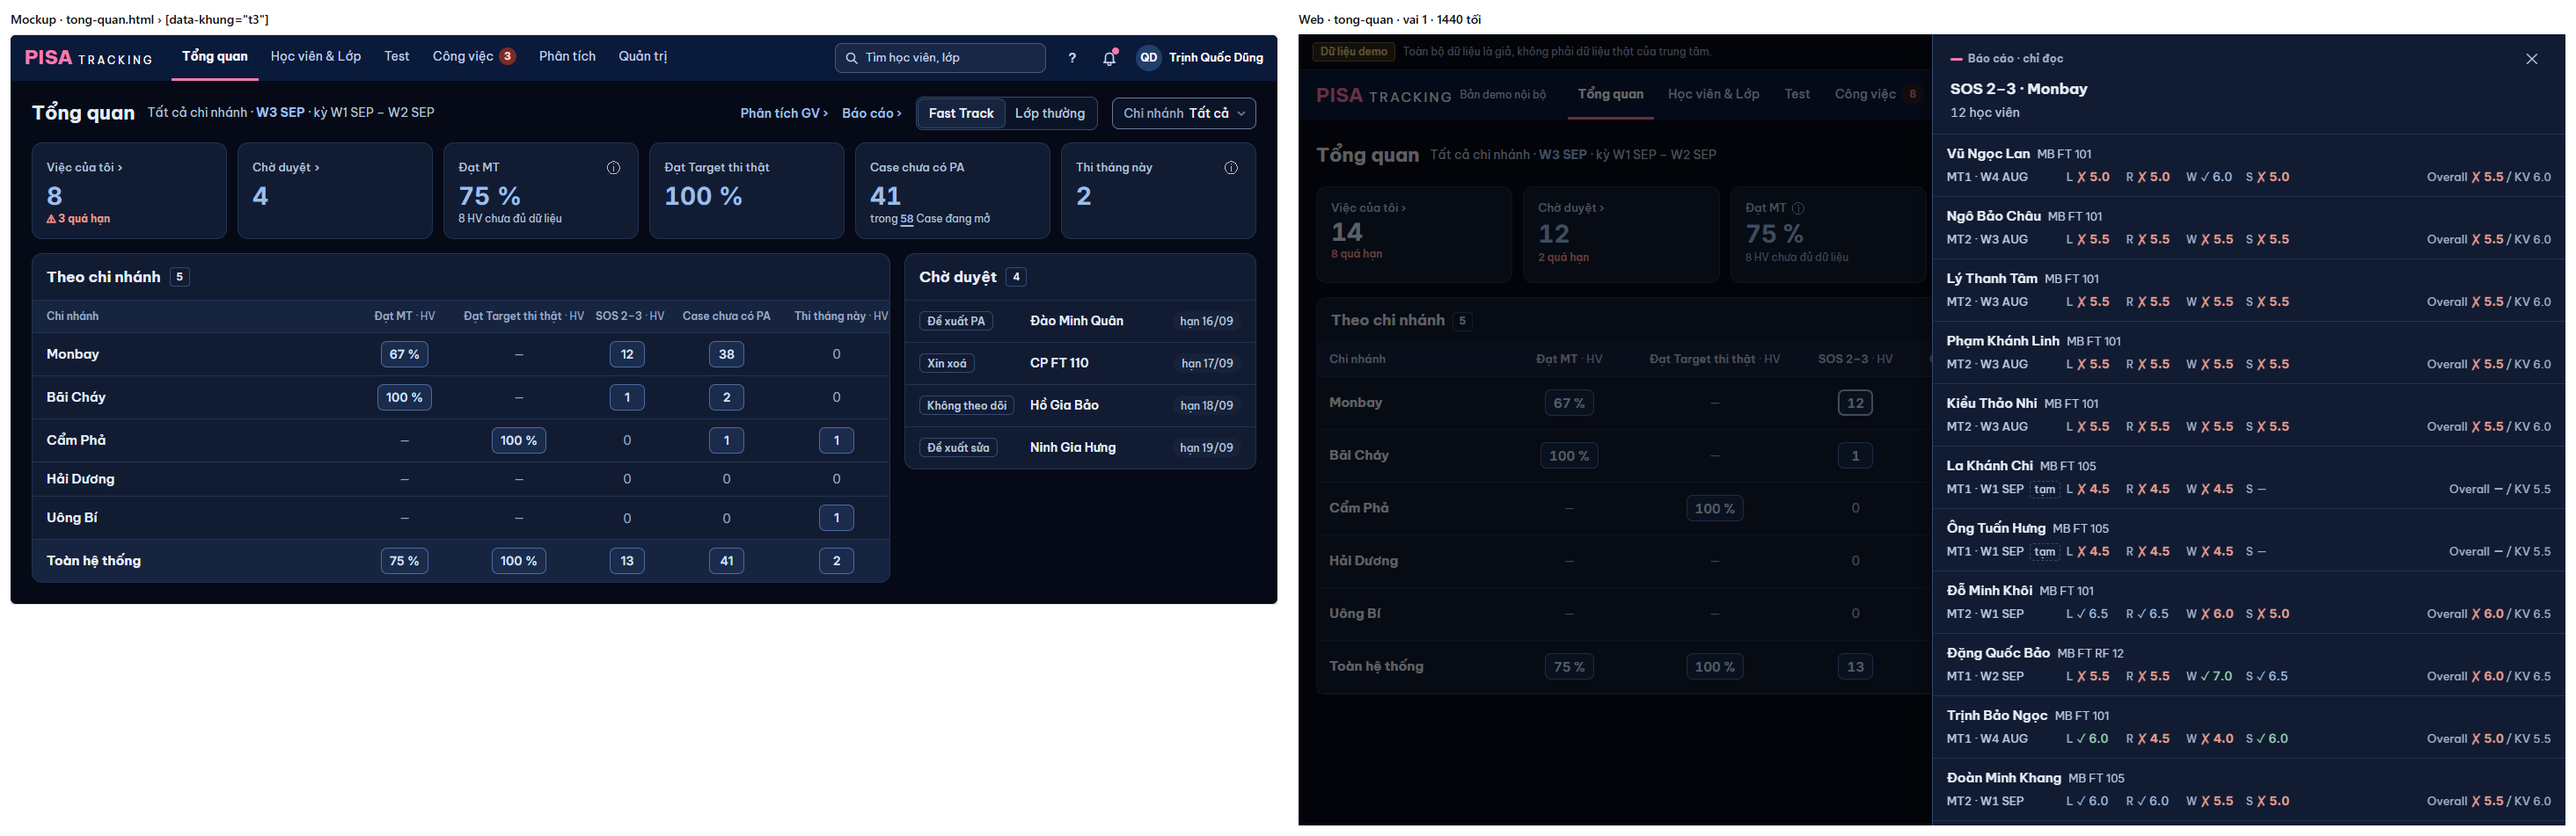
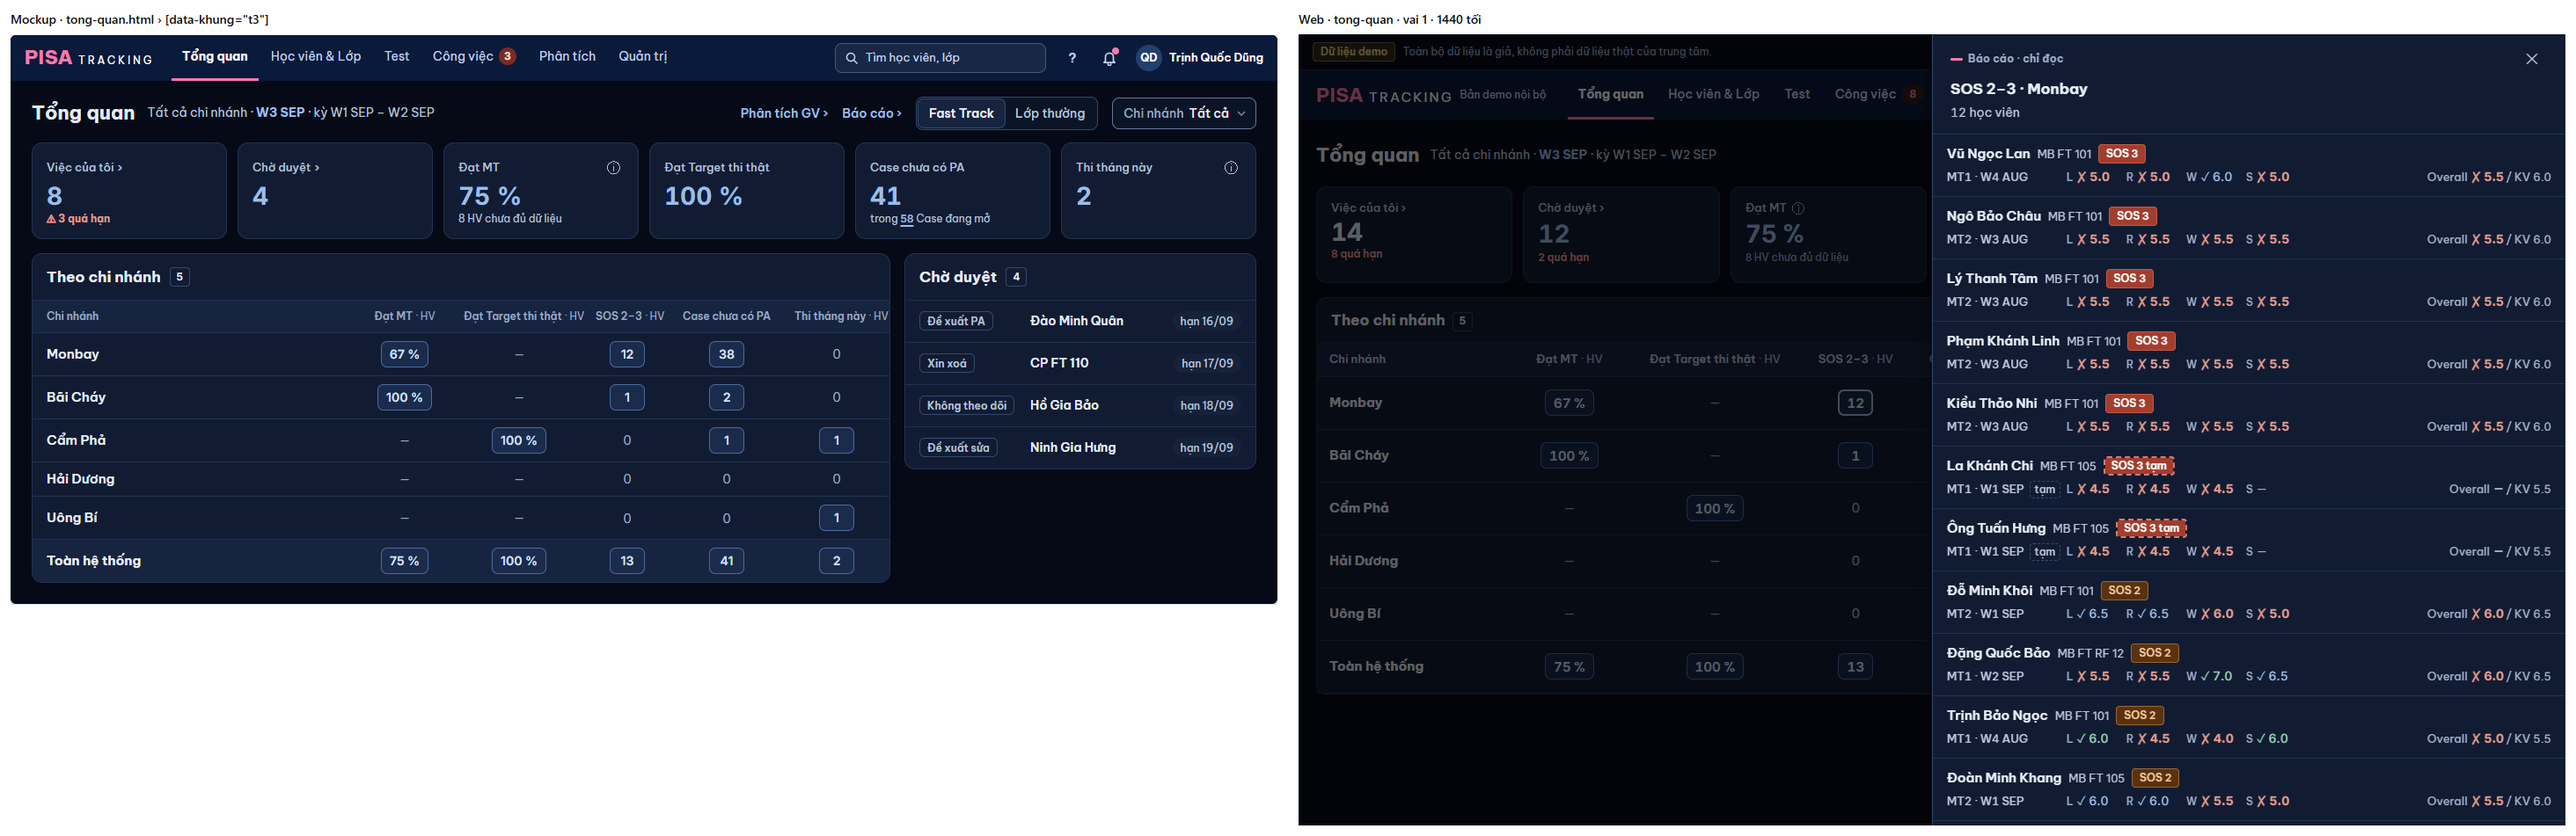
TQ-SOS-CN (PTA rà #1710): panel SOS 2–3 — badge mức SOS mỗi dòng (0 câu thêm)

diff --git a/web/src/ui/SoLieu.tsx b/web/src/ui/SoLieu.tsx
@@ -10,7 +10,7 @@ import { KhungPanel } from './KhungPanel.tsx';
 import { HangTab } from './HangTab.tsx';
 import { CanLam, DiemKq, NutChu, NutHoanTac } from './KhuonViec.tsx';
 import { lopKq } from './BieuTuong.tsx';
-import { CHIP_VUONG, ChipHan, ChipSoQuaHan } from './Nhan.tsx';
+import { CHIP_SOS, CHIP_VUONG, ChipHan, ChipSoQuaHan, lopSos } from './Nhan.tsx';
 import { XemThem, useXemThem } from './PhanTrang.tsx';
 import { Empty, ErrorState, Skeleton } from './ui.tsx';
 import { useNgayNghiepVu } from './ngayNghiepVu.ts';
@@ -49,6 +49,8 @@ export type ViecDongSoLieu = {
 export type DongSoLieu = {
   id: number; title: string; sub: string; href: string; nguoi?: string | null; han?: string | null;
   em?: { id: number; ten: string } | null; lop?: string | null; ngCanh?: string | null; nguoiId?: number | null; ngayThiThat?: string;
+  /** TQ-SOS-CN: mức SOS của em (panel SOS 2–3) — badge cạnh tên, cùng dáng chip SOS mọi nơi. */
+  sos?: { muc: number; tam: boolean } | null;
   viec?: ViecDongSoLieu | null; tinhTrang?: string | null;
   /** PANEL-RIENG (XM-2): bài không có người chấm (môn chưa phân công) — "chưa phân công" + "Phân công ›" (QL). */
   chuaPhanCong?: true;
@@ -428,6 +430,7 @@ export function NganDanhSach({ tieuDe, dv, data, loading, error, reload, onDong,
           {xh && <span className={`xh ${xh.lop}`}>{xh.chu}</span>}
           <Link to={r.em ? duongHoSoHocVien(r.em.id) : r.href} className="text-[15px] font-semibold text-slate-100 no-underline hover:text-[color:var(--accent)] hover:underline max-sm:-my-[11px] max-sm:py-[11px]">{ten}</Link>
           {hienLop(tieuDe, lop) && <span className="whitespace-nowrap text-[13px] text-slate-400">{lop}</span>}
+          {r.sos && r.sos.muc > 0 && <span className={`${CHIP_SOS} ${lopSos(r.sos.muc, r.sos.tam)}`}>SOS {r.sos.muc}{r.sos.tam ? ` ${t('tạm')}` : ''}</span>}
           <span className="ml-auto inline-flex items-center gap-2">
             {r.xuHuong?.truoc && r.xuHuong.sau && <span className="doi">{r.xuHuong.truoc.luot} <b>{r.xuHuong.truoc.v.toFixed(1)}</b> → {r.xuHuong.sau.luot} <b>{r.xuHuong.sau.v.toFixed(1)}</b></span>}
             {chipHan}

diff --git a/server/src/worklist/bangChiNhanh.ts b/server/src/worklist/bangChiNhanh.ts
@@ -249,7 +249,8 @@ export function sos23ChiNhanh(p: Principal, f: { branchId: number | null; ids: r
   const muc = (sid: number) => Math.min(3, ev.get(sid)?.sosLevel ?? 0);
   const ids = [...giu].filter((sid) => muc(sid) >= 2).sort((a, b) => muc(b) - muc(a) || a - b);
   const ten = f.branchId ? (db().prepare('SELECT name FROM branches WHERE id = ?').get(f.branchId) as { name?: string } | undefined)?.name ?? '' : '';
-  const rows = rowsFor('hoc-vien', ids, 'hv-sos-hien-tai', p, false, new Map(ids.map((sid) => [sid, diemTuEval(ev.get(sid)!)])));
+  const rows = rowsFor('hoc-vien', ids, 'hv-sos-hien-tai', p, false, new Map(ids.map((sid) => [sid, diemTuEval(ev.get(sid)!)])))
+    .map((r) => ({ ...r, sos: { muc: muc(r.id), tam: !!ev.get(r.id)?.provisional } }));   // PTA rà #1710: dòng ghi rõ mức (0 câu thêm)
   return { n: ids.length, unit: 'hoc-vien', tieuDe: `${ids.length} HV — SOS 2–3${ten ? ` · ${ten}` : ''}`, rows };
 }
 

diff --git a/server/src/worklist/metrics.ts b/server/src/worklist/metrics.ts
@@ -130,6 +130,8 @@ export type MetricRow = {
   id: number; title: string; sub: string; href: string;
   /** PR-VAI-a (Q26): dòng Case/PA — người phụ trách/thực hiện và hạn (xác nhận nguyên nhân / ghi kết quả), 12 px ở panel. */
   nguoi?: string | null; han?: string | null;
+  /** TQ-SOS-CN (PTA rà #1710): mức SOS của em (lượt mới nhất hợp lệ) + tạm — badge cạnh tên ở panel SOS 2–3. */
+  sos?: { muc: number; tam: boolean } | null;
   /** PANEL-RIENG (XM-2): dòng BÀI không có người giữ ô (môn chưa phân công GV). */
   chuaPhanCong?: true;
   /** OV-12e: đầu dòng v3 — em (link hồ sơ) · lớp · ngữ cảnh; việc của dòng (null = không còn việc, ví dụ Case đã xong). */

diff --git a/server/src/tests/prTqSosCn.tests.ts b/server/src/tests/prTqSosCn.tests.ts
@@ -25,6 +25,7 @@ export async function runPrTqSosCnTests(t: any) {
         const ev = latestAttempts(r.rows.map((x: any) => x.id), 'valid', demoToday());
         const muc = r.rows.map((x: any) => Math.min(3, ev.get(x.id)?.sosLevel ?? 0));
         assert(muc.every((m: number) => m >= 2), `${h.ten}: có em SOS < 2`);
+        assert(r.rows.every((x: any, i: number) => x.sos?.muc === muc[i]), `${h.ten}: dòng thiếu / sai badge mức SOS (PTA rà #1710)`);
         for (let i = 1; i < muc.length; i++) assert(muc[i - 1] > muc[i] || (muc[i - 1] === muc[i] && r.rows[i - 1].id < r.rows[i].id), `${h.ten}: thứ tự sai ở dòng ${i}`);
       }
       const ids = [...new Set(hang.flatMap((h: any) => h.sos23Ids))];

diff --git a/docs/anh/tq-sos-cn/khop-khac.md b/docs/anh/tq-sos-cn/khop-khac.md
@@ -9,13 +9,14 @@ Mockup `thiet-ke/v21/tong-quan.html` (⑧ T3, T7b) + `tong-quan-ghi-chu.md` (rà
 | `t3-qt-1440-toi.png` | T3 | QT 1440 tối: cột SOS 2–3 là hộp số (0 = chữ thường), cùng dáng Đạt MT / Case chưa có PA |
 | `t3-qt-panel-sos-1440-toi.png` | T3 | bấm "12" hàng Monbay → panel tại chỗ "SOS 2–3 · Monbay · 12 học viên" (dòng em + điểm lượt mới nhất) |
 | `t7b-qt-375-sang.png` | T7b | 375 sáng: thẻ chi nhánh, SOS 2–3 là hộp số |
+| `t7b-qt-panel-sos-375-sang.png` | T7b | 375 sáng: panel SOS 2–3 · Monbay, mỗi dòng có badge mức (SOS 3 / SOS 2, "tạm" viền đứt) |
 
 ## Bảng truy vết
 | Khung | Thành phần | Sau PR | Ảnh | Đánh giá |
 |---|---|---|---|---|
 | T3 | Ô SOS 2–3 mỗi chi nhánh | chữ → hộp số `OSo` (0 không bấm), panel chỉ đọc `DanhSachNguon` | t3 | KHỚP |
 | T3 | Hàng Toàn hệ thống · SOS 2–3 | hộp số, panel gộp em mọi chi nhánh | t3 | KHỚP |
-| T3 | Panel SOS 2–3 | em SOS 3 trước, rồi SOS 2, rồi id; dòng em có lớp + điểm lượt mới nhất (dòng chuẩn panel số) | t3-panel | KHỚP (mockup không vẽ panel này — dùng panel số chuẩn T2) |
+| T3 | Panel SOS 2–3 | em SOS 3 trước, rồi SOS 2, rồi id; dòng em có lớp + **badge mức SOS** (cùng dáng chip SOS mọi nơi, "tạm" viền đứt — PTA rà #1710) + điểm lượt mới nhất | t3-panel, t7b-panel | KHỚP (mockup không vẽ panel này — dùng panel số chuẩn T2) |
 | T7b | 375 thẻ chi nhánh | SOS 2–3 hộp số | t7b | KHÁC nhỏ — mockup T7b vẽ "12" chữ, T3 (1440) vẽ hộp; theo rà vòng 2 "bấm được" → hộp ở cả hai |
 | T7b | "+ 3 chi nhánh" gập chi nhánh rỗng | chưa làm | t7b | để PR kế TQ-375-GAP |
 | — | Báo cáo HV (Phân tích) dùng cùng bảng | giữ chữ như cũ (chỉ Tổng quan đổi) | — | GIỮ |
